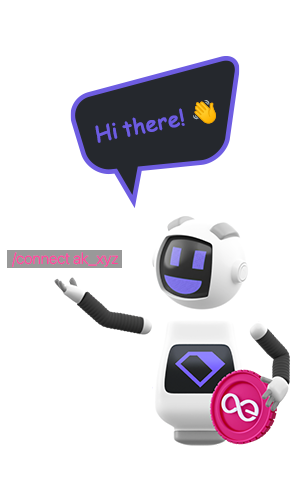
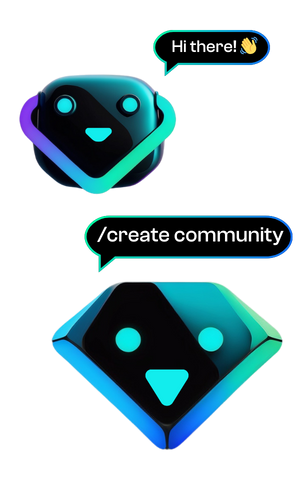
feat: updates visuals

diff --git a/src/components/views/auth/VectorAuthPage.tsx b/src/components/views/auth/VectorAuthPage.tsx
@@ -27,7 +27,7 @@ export default class VectorAuthPage extends React.PureComponent {
         if (VectorAuthPage.welcomeBackgroundUrl) return VectorAuthPage.welcomeBackgroundUrl;
 
         const brandingConfig = SdkConfig.getObject("branding");
-        VectorAuthPage.welcomeBackgroundUrl = "themes/superhero/img/backgrounds/gradient-bg.svg";
+        VectorAuthPage.welcomeBackgroundUrl = "themes/superhero/img/backgrounds/background-intro.png";
 
         const configuredUrl = brandingConfig?.get("welcome_background_url");
         if (configuredUrl) {
